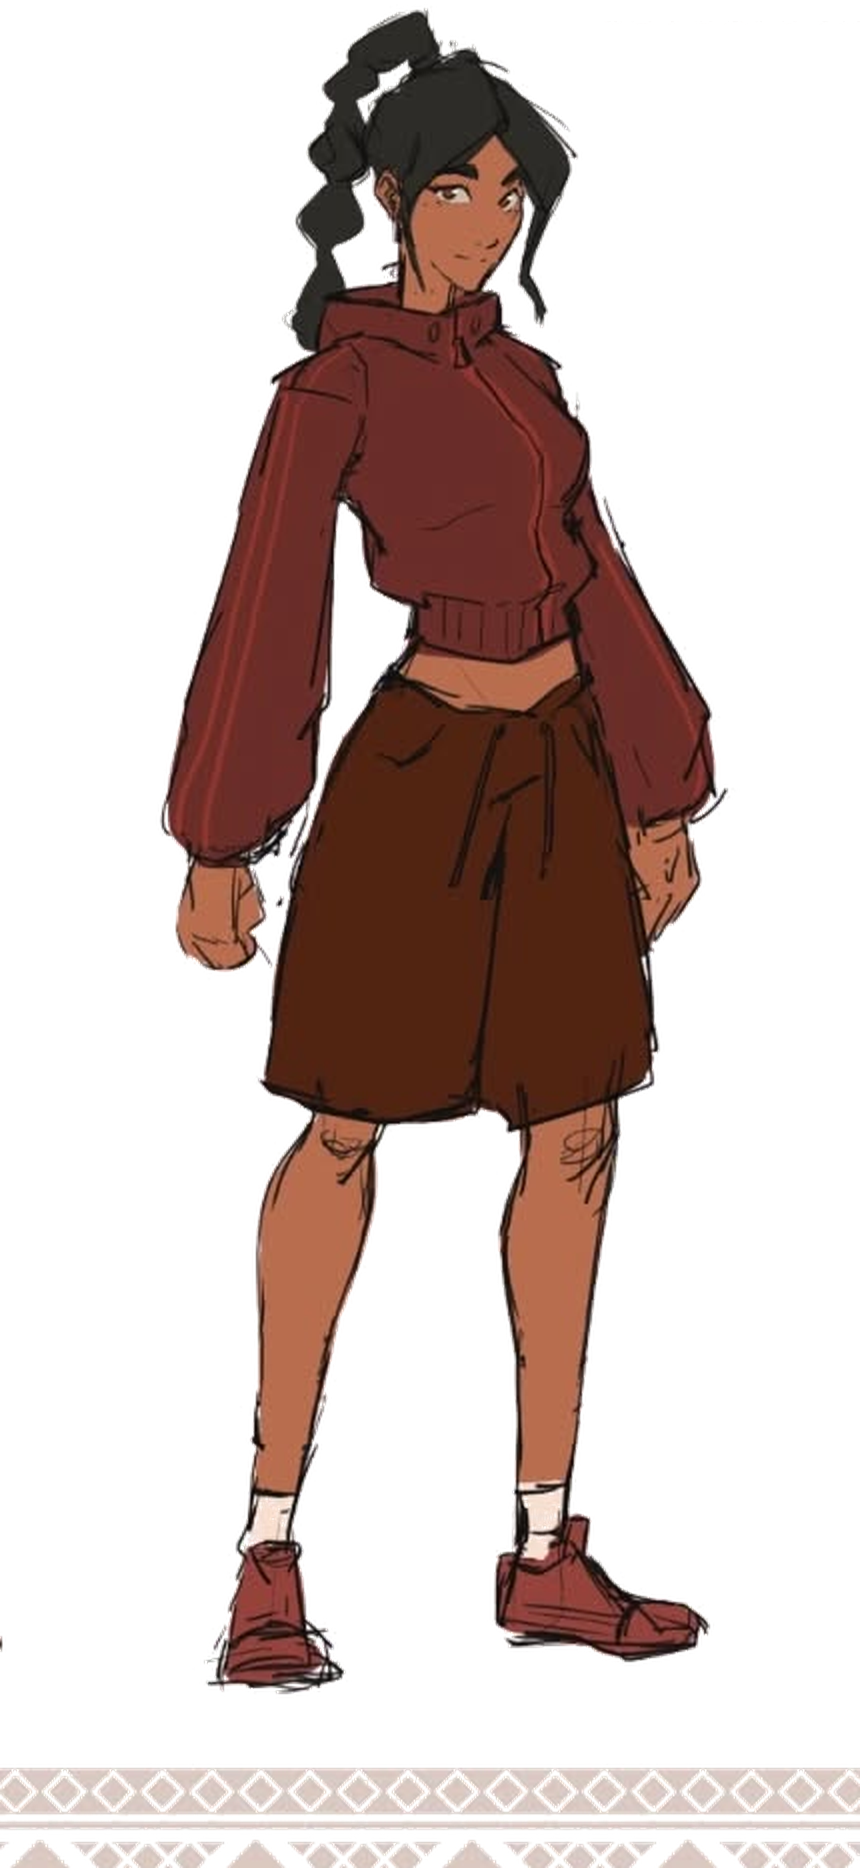
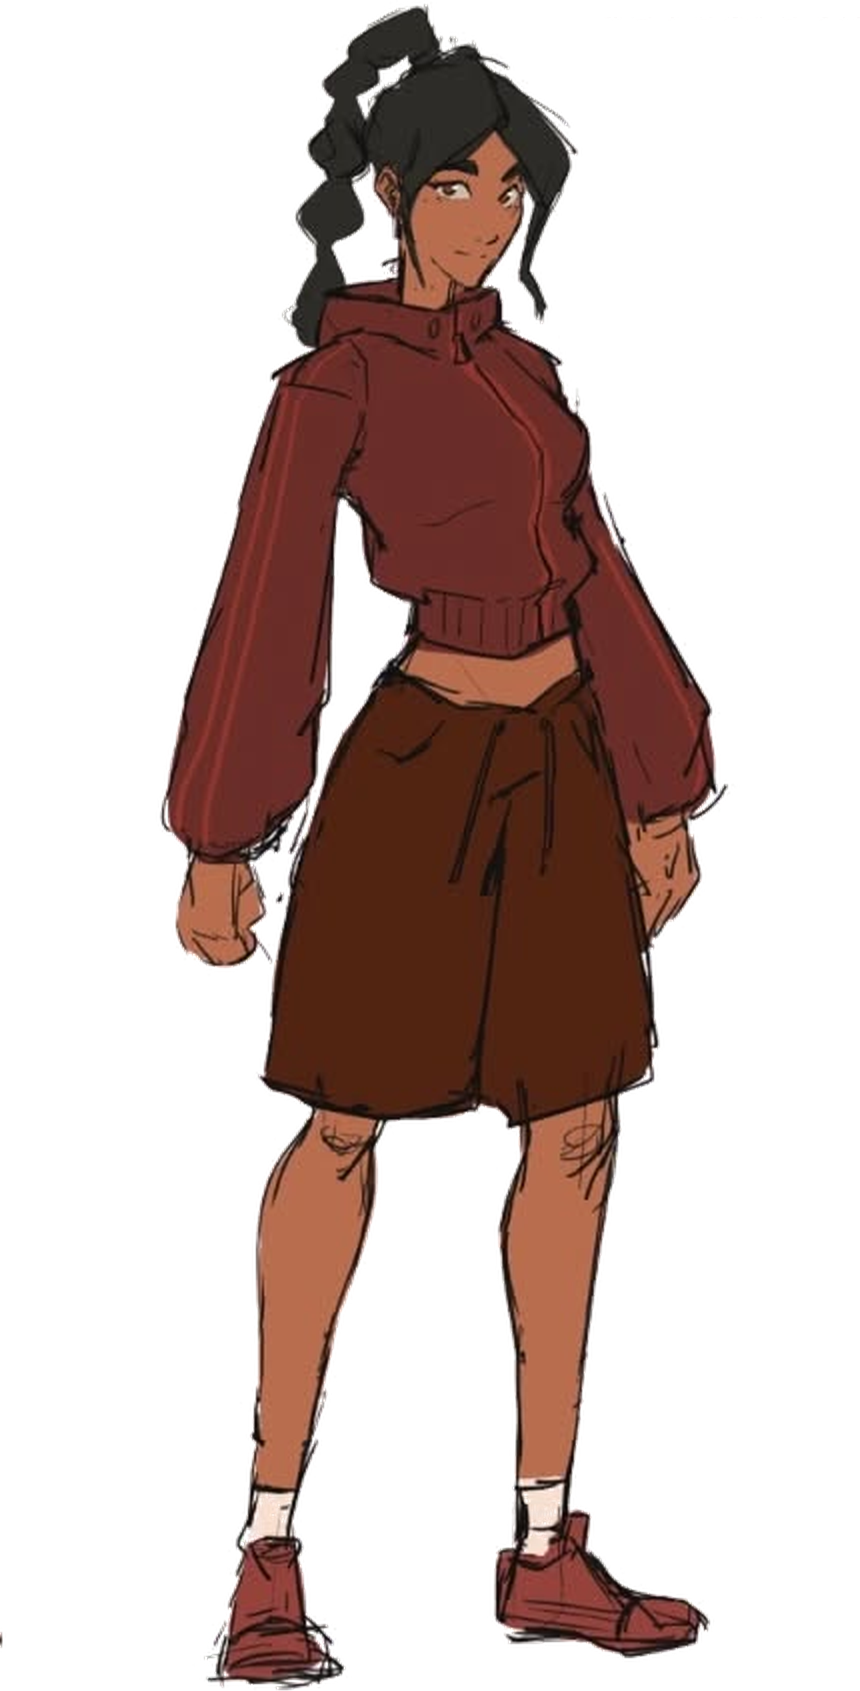
fix(characters): remove bottom ribbons from Design 03 and 04 to equalize figure baselines

Changed region(s): [[0.0, 0.0, 1.0, 1.0], [0.6349, 0.4613, 0.6651, 0.492]]

diff --git a/index.html b/index.html
@@ -369,7 +369,7 @@
             <!-- Design 01: Tan Crop & Braid Exploration -->
             <div class="flex flex-col items-center">
               <img 
-                src="Assets/upscaled/tama_pose3_extracted.png?v=v6" 
+                src="Assets/upscaled/tama_pose3_extracted.png?v=v7" 
                 alt="Tama Model Sheet Design 01" 
                 class="h-[360px] sm:h-[420px] lg:h-[460px] w-auto object-contain select-none"
               >
@@ -381,7 +381,7 @@
             <!-- Design 02: Sleeveless Mockneck & Baggy Pants -->
             <div class="flex flex-col items-center">
               <img 
-                src="Assets/upscaled/tama_pose4_extracted.png?v=v6" 
+                src="Assets/upscaled/tama_pose4_extracted.png?v=v7" 
                 alt="Tama Model Sheet Design 02" 
                 class="h-[360px] sm:h-[420px] lg:h-[460px] w-auto object-contain select-none"
               >
@@ -393,7 +393,7 @@
             <!-- Design 03: Signature Athletic Top & Wraps -->
             <div class="flex flex-col items-center">
               <img 
-                src="Assets/upscaled/tama_pose5_extracted.png?v=v6" 
+                src="Assets/upscaled/tama_pose5_extracted.png?v=v7" 
                 alt="Tama Model Sheet Design 03" 
                 class="h-[360px] sm:h-[420px] lg:h-[460px] w-auto object-contain select-none"
               >
@@ -405,7 +405,7 @@
             <!-- Design 04: Maroon Hoodie Exploration -->
             <div class="flex flex-col items-center">
               <img 
-                src="Assets/upscaled/tama_pose6_extracted.png?v=v6" 
+                src="Assets/upscaled/tama_pose6_extracted.png?v=v7" 
                 alt="Tama Model Sheet Design 04" 
                 class="h-[360px] sm:h-[420px] lg:h-[460px] w-auto object-contain select-none"
               >
